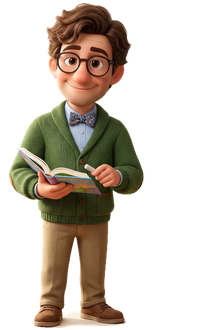
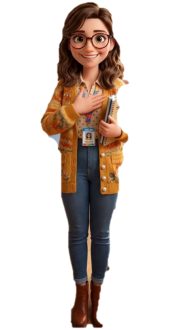
Replace guide assistant with female character and voice

diff --git a/src/main/java/com/booklibrary/ui/GuideAssistant.java b/src/main/java/com/booklibrary/ui/GuideAssistant.java
@@ -49,18 +49,17 @@ public class GuideAssistant {
     private static final String PREF_DISABLED = "guideDisabled";
     private static final int WORDS_PER_MINUTE = 175;
 
-    /** The animation sheet: 79 pictures of 200 x 330 pixels, 10 in each row, played at 10 pictures a second. */
+    /** The animation sheet: 79 pictures of 181 x 330 pixels, 10 in each row, played at 10 pictures a second. */
     private static final String SHEET = "/images/assistant_sheet.png";
-    private static final int FRAME_WIDTH = 200;
+    private static final int FRAME_WIDTH = 181;
     private static final int FRAME_HEIGHT = 330;
     private static final int COLUMNS = 10;
     private static final int FRAMES = 79;
     private static final int FRAME_MILLIS = 100;
 
-    /** Voices of men, so the assistant sounds like the character. The first installed one in the engine's list is used. */
-    private static final List<String> MALE_NAMES = List.of("Evan", "Nathan", "Daniel", "Alex", "Tom", "Oliver",
-            "Aaron", "Lee", "Arthur", "Gordon", "Rishi", "David", "Mark", "George", "James", "Guy", "Ryan",
-            "Christopher", "Eric");
+    /** Voices of women, so the assistant sounds like the character. The first installed one in the engine's list is used. */
+    private static final List<String> FEMALE_NAMES = List.of("Samantha", "Ava", "Allison", "Susan", "Zoe", "Karen",
+            "Moira", "Tessa", "Serena", "Victoria", "Fiona", "Zira", "Hazel", "Jenny", "Aria", "Emma");
 
     private final TabPane tabs;
     private final List<GuideSteps.Step> steps = GuideSteps.all();
@@ -172,6 +171,7 @@ public class GuideAssistant {
         index = 0;
         panel.setVisible(true);
         bob.play();
+        startTalking();
         showStep(null);
     }
 
@@ -214,10 +214,6 @@ public class GuideAssistant {
         position = (position + 1) % cycle;
         int frame = position <= FRAMES - 1 ? FRAMES - 1 - position : position - (FRAMES - 1);
         showFrame(frame);
-        if (stopRequested && position == 0) {
-            talk.stop();
-            stopRequested = false;
-        }
     }
 
     private void startTalking() {
@@ -229,9 +225,7 @@ public class GuideAssistant {
 
     /** Lets the movement finish its round and stand still. */
     private void stopTalking() {
-        if (talk.getStatus() == Animation.Status.RUNNING) {
-            stopRequested = true;
-        }
+        // The movement keeps looping, so the character stays alive and never freezes.
     }
 
     private void close() {
@@ -295,8 +289,8 @@ public class GuideAssistant {
     }
 
     /**
-     * Picks a man's English voice. The speech engines list the best sounding voices first, so the first
-     * English voice with a man's name is used. If there is none, the first English voice is used.
+     * Picks a woman's English voice. The speech engines list the best sounding voices first, so the first
+     * English voice with a woman's name is used. If there is none, the first English voice is used.
      */
     private static Voice chooseVoice(SpeechEngine engine) {
         Voice firstEnglish = null;
@@ -307,7 +301,7 @@ public class GuideAssistant {
             if (firstEnglish == null) {
                 firstEnglish = candidate;
             }
-            for (String name : MALE_NAMES) {
+            for (String name : FEMALE_NAMES) {
                 if (candidate.name().contains(name)) {
                     return candidate;
                 }
